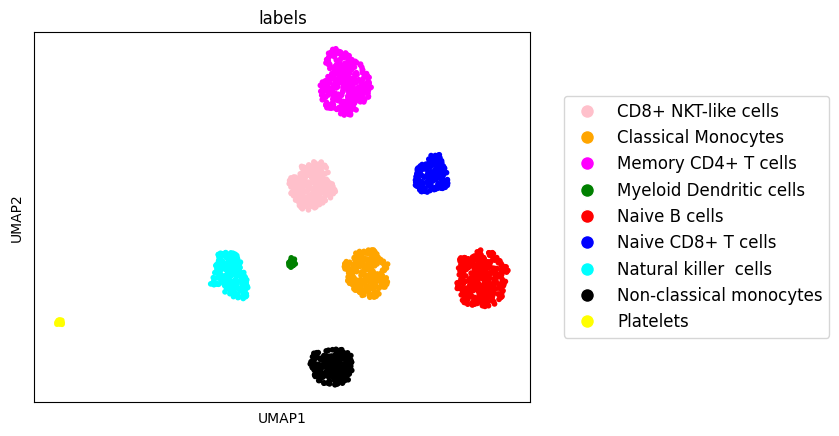
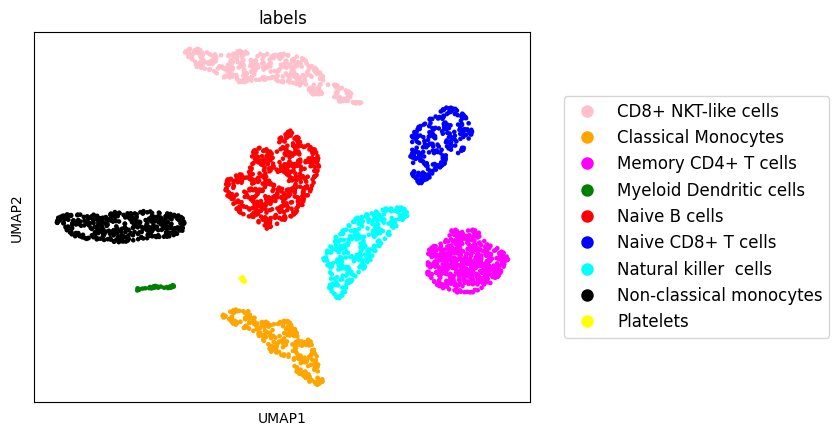
added variability functionality

diff --git a/models.py b/models.py
@@ -191,11 +191,24 @@ class B2SC(nn.Module):
 
         return mus, logvars, gmm_weights
 
-    def reparameterize(self, mus, logvars, gmm_weights, selected_neuron):
+    def reparameterize(self, mus, logvars, gmm_weights, selected_neuron, variability=1):
         zs = []
         mu = mus[selected_neuron]
-        std = torch.exp(0.1 * logvars[selected_neuron])
+
+        # Min-max normalize logvars to allow variance of generated cell types.
+        x = logvars[selected_neuron]
+
+        # Compute the min and max of x
+        x_min = torch.min(x)
+        x_max = torch.max(x)
+
+        # Apply Min-Max scaling
+        scaled_x = (x - x_min) / (x_max - x_min)
+        scaled_x = variability * scaled_x #Change the integer to allow more variability.
+        std = torch.exp(scaled_x)
+
         eps = torch.randn_like(std)
+
         zs.append(mu + eps * std)
         z_stack = torch.stack(zs, dim=-1)
         z = (z_stack * gmm_weights).sum(dim=-1)
@@ -215,9 +228,17 @@ class B2SC(nn.Module):
         
         return recon_x
 
-    def forward(self, x, selected_neuron):
+    def forward(self, x, selected_neuron=None, variability=1):
         mus, logvars, gmm_weights = self.encode(x)
-        z = self.reparameterize(mus, logvars, gmm_weights, selected_neuron)
+        
+        if selected_neuron == None:
+            gmm_weights = gmm_weights.mean(0)
+            # clamp the negative values to the smallest positive number
+            min_positive = torch.min(gmm_weights[gmm_weights > 0]).item() if torch.any(gmm_weights > 0) else 1e-3
+            gmm_weights_clamped = torch.clamp(gmm_weights, min=min_positive)
+            selected_neuron = torch.multinomial(gmm_weights_clamped, 1).item()
+        
+        z = self.reparameterize(mus, logvars, gmm_weights, selected_neuron, variability)
         recon_x = self.decode(z)
         
-        return recon_x.sum(dim=0)
+        return recon_x.sum(dim=0), selected_neuron

diff --git a/B2SC.py b/B2SC.py
@@ -44,29 +44,9 @@ def generate(b2sc_model, loader):
         
         b2sc_model = b2sc_model.to(device)
         # import pdb;pdb.set_trace()
-        mus, logvars, gmm_weights = b2sc_model.encode(data)
+        recon_count, selected_neuron = b2sc_model(data, variability=10)
         
-        gmm_weights = gmm_weights.mean(0)
-
-        # find the minimum positive value in gmm_weights or default to 1e-10 if all values are negative
-        min_positive = torch.min(gmm_weights[gmm_weights > 0]).item() if torch.any(gmm_weights > 0) else 1e-3
-
-        # clamp the negative values to the smallest positive number
-        gmm_weights_clamped = torch.clamp(gmm_weights, min=min_positive)
-        # gmm_weights = torch.nn.functional.sigmoid(gmm_weights)
-        # print(gmm_weights)
-        
-        selected_neuron = torch.multinomial(gmm_weights_clamped, 1).item()
-        # print(selected_neuron)
-        # print(selected_neuron)
         labels.append(selected_neuron)
-
-        recon_count = b2sc_model(data, selected_neuron)
-
-        # sys.exit if nan in recon_count.
-        if torch.isnan(recon_count).any():
-            print("Nan in recon_count")
-            import sys; sys.exit()
         recon_counts.append(recon_count)
 
     return recon_counts, labels

diff --git a/paired_dataset.py b/paired_dataset.py
@@ -67,9 +67,9 @@ X_tensor = torch.Tensor(adata.X)
 dataset = TensorDataset(X_tensor, labels)
 
 
-# Save X_tensor and cell_types_tensor as recon_counts_u.npy and labels_u.npy.
-np.save('recon_counts_u.npy', X_tensor)
-np.save('labels_u.npy', cell_types_tensor)
+# # Save X_tensor and cell_types_tensor as recon_counts_u.npy and labels_u.npy.
+# np.save('recon_counts_u.npy', X_tensor)
+# np.save('labels_u.npy', cell_types_tensor)
 
 
 mini_batch = len(adata)
